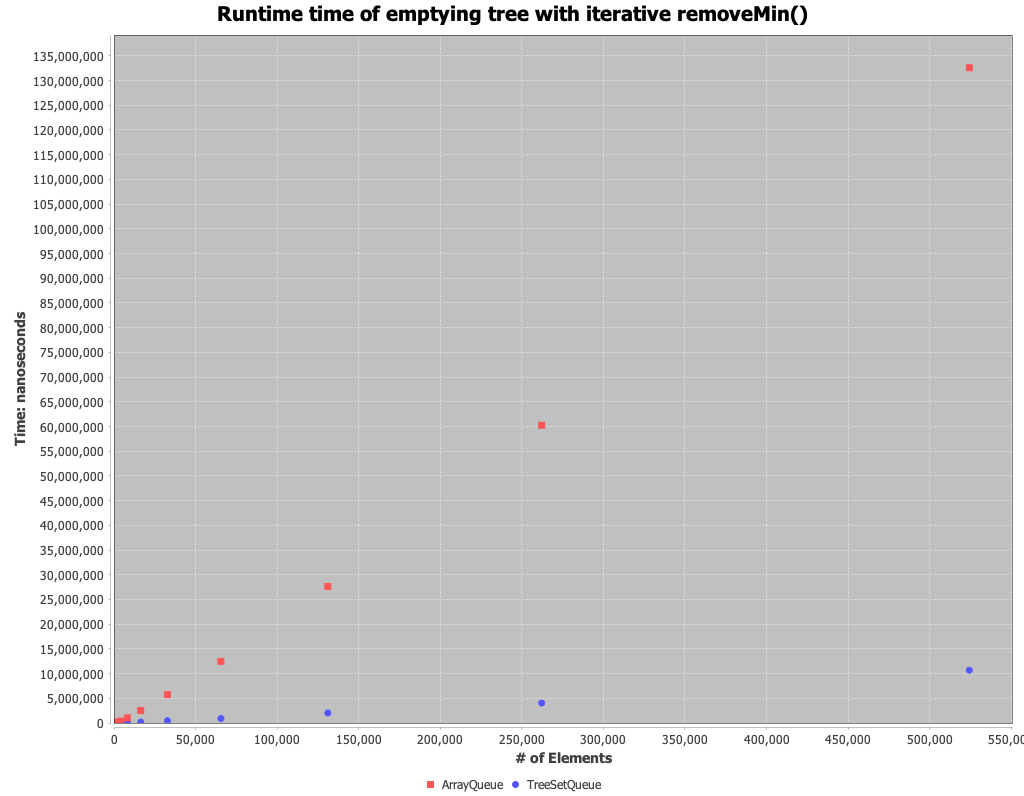
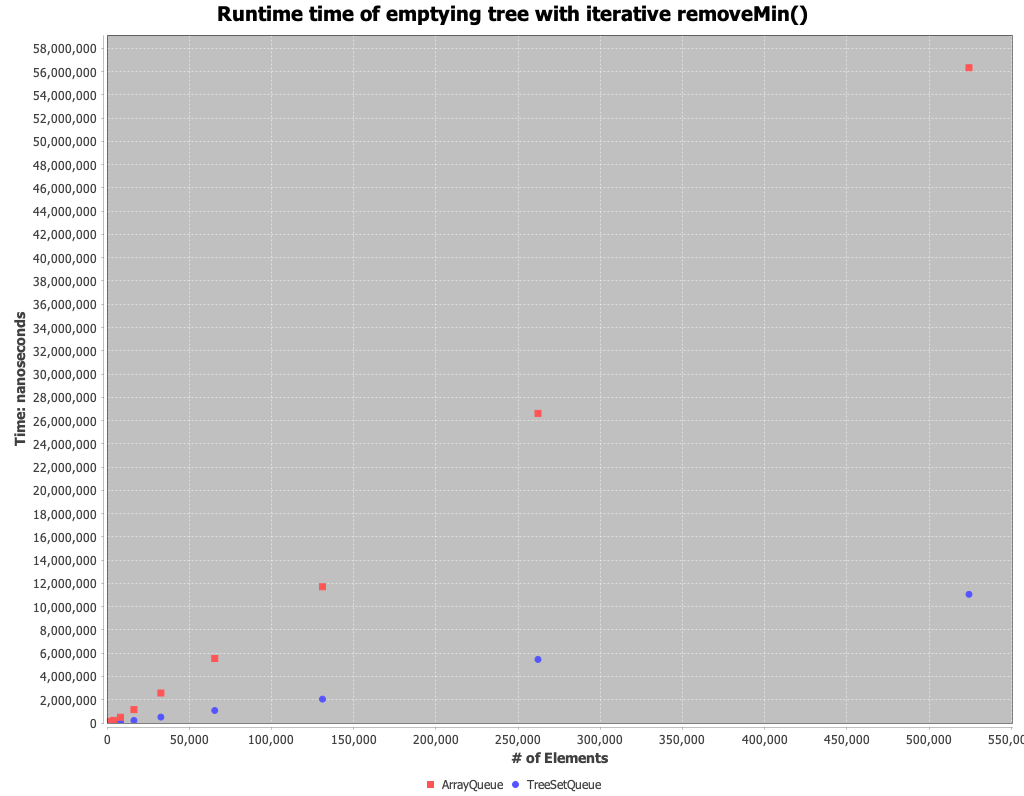
Updated lab6

diff --git a/CS6012/Week3/Day4/Lab6/src/lab06/StackTimingExperiment.java b/CS6012/Week3/Day4/Lab6/src/lab06/StackTimingExperiment.java
@@ -15,11 +15,6 @@ import java.util.ArrayList;
 import java.util.Arrays;
 import java.util.Collections;
 
-/*
- 1. Build trees with ordered set
- 2. Build trees with permuted set
- 3. Remove all elements
- */
 
 public class StackTimingExperiment extends TimerTemplate {
     public String dataStructure;
@@ -36,18 +31,16 @@ public class StackTimingExperiment extends TimerTemplate {
      */
     public StackTimingExperiment(int[] problemSizes, int timesToLoop) {
         super(problemSizes, timesToLoop);
-
     }
 
     @Override
     protected void setup(int n) {
-        for (int i = 0; i < n; i++){
+        orderdedSet.clear();
+        for (int i = 0; i < n; i++) {
             orderdedSet.add(i);
         }
         suffledSet = new ArrayList<>(orderdedSet);
-        for (int i = 0; i < 10; i++){
-            Collections.shuffle(suffledSet);
-        }
+        Collections.shuffle(suffledSet);
     }
 
     @Override
@@ -94,9 +87,13 @@ public class StackTimingExperiment extends TimerTemplate {
     protected void compensationIteration(int n) {
         if (testAdd) {
             if (useOrder) {
-                if (dataStructure.equals("ArrayQueue")) {} else {}
+                if (dataStructure.equals("ArrayQueue")) {
+                } else {
+                }
             } else {
-                if (dataStructure.equals("ArrayQueue")) {} else {}
+                if (dataStructure.equals("ArrayQueue")) {
+                } else {
+                }
             }
         } else {
             if (dataStructure.equals("ArrayQueue")) {
@@ -120,6 +117,7 @@ public class StackTimingExperiment extends TimerTemplate {
         }
 
     }
+
     public static int[] generateProblemSizes() {
         int numProblemSizes = 10;
         int[] problemSizes = new int[numProblemSizes];
@@ -159,7 +157,7 @@ public class StackTimingExperiment extends TimerTemplate {
         }
     }
 
-    public static void runTest(int[] problemSizes, boolean testAdd , boolean useOrder, String title, String fileName) {
+    public static void runTest(int[] problemSizes, boolean testAdd, boolean useOrder, String title, String fileName) {
         ArrayList<ExperimentResult> results_ = new ArrayList<>();
         for (String classToTest : Arrays.asList("ArrayQueue", "TreeSetQueue")) {
             StackTimingExperiment timer = new StackTimingExperiment(problemSizes, 100);
@@ -176,8 +174,8 @@ public class StackTimingExperiment extends TimerTemplate {
     public static void main(String[] args) {
         var problemSizes = generateProblemSizes();
 
-//        runTest(problemSizes, true, true, "Runtime time of tree construction from ordered set", "TreeConstructionOrderedSet");
-        runTest(problemSizes, true,false, "Runtime time of tree construction from permuted set", "TreeConstructionPermutedSet");
-//        runTest(problemSizes, false,true, "Runtime time of emptying tree with iterative removeMin()", "EmptyingTree");
+        runTest(problemSizes, true, true, "Runtime time of tree construction from ordered set", "TreeConstructionOrderedSet");
+        runTest(problemSizes, true, false, "Runtime time of tree construction from permuted set", "TreeConstructionPermutedSet");
+        runTest(problemSizes, false, true, "Runtime time of emptying tree with iterative removeMin()", "EmptyingTree");
     }
 }

diff --git a/CS6012/Week3/Day4/Lab6/analysis.md b/CS6012/Week3/Day4/Lab6/analysis.md
@@ -1,20 +1,41 @@
 # Lab 6 Analysis
 
 # Questions
-1. `TreeSet` is writing the permuted set slower than ordered set. Red black trees should be faster with permuted set
-2. I wouldn't expect a big difference between `TreeSet` and `ArrayQueue` on construction. Add for `ArrayQueue` is `O(n)` worst case and `TreeSet` guarantees `O(log n)`
-3. Cost of delete is similar `O(log n)` but we see a big difference
 
 ## Experiment 1 - Tree Construction
 
 ![](TreeConstructionOrderedSet.png)
 
+Here we see the runtime of adding an entire ascending ordered list into the pqueue min heap (`ArrayQueue`) and the pqueue treeset (`TreeSetQueue`).
+`ArrayQueue` outperforms `TreeSetQueue` which was expected as the `TreeSetQueue` has a guaranteed runtime of `O(nlogn)` whereas `ArrayQueue` has the following potential runtimes:
+* Add with no required percolating up - `O(n)`
+* Add requiring percolating up - `O(nlogn)`
+* Add requiring growing the array and percolating up - `O(n^2logn)`
+
+Given the array we are populating the heap with is sorted, thus won't require percolating up, and growing the array becomes increasingly rare, we can say the average runtime of constructing a populated `ArrayQueue` object is `O(n)`.
+Thus, I expected `TreeSetQueue` to have a runtime of `O(nlogn)` and `ArrayQueue` to have a runtime of `O(n)`.
+This expectation is supported as `ArrayQueue` displays a `O(n)` trend and `TreeSetQueue`, an `O(nlogn)` trend.
+
 ![](TreeConstructionPermutedSet.png)
 
-In both cases it appears the Array-backed min heap priority queue (`ArrayQueue`) had higher performance than the `TreeSet` backed priority queue.
-Both the `ArrayQueue` and `TreeSet` priority queues performed slower when being constructed with a permuted set vs. being constructed with an ascending ordered set.
-The trend makes sense as 
+Expect:
+* ArrayQueue - slows down as we need to percolate up more -> average runtime to `O(n)` and worst to `O(nlogn)` most often
+* TreeSetQueue - Stays at `O(nlogn)` - 
+
+In the chart above, we perform the same construction of the trees as in the first chart, except we now build the trees using a permuted list.
+Here I would expect `TreeSetQueue` to remain the same as it has a guaranteed runtime of `O(nlogn)` and `ArrayQueue` would slow down a bit, beause this would require percolating up more often moving it closer to a `O(nlogn)` runtime.
+However, even with percolating up being required the average percolate up runtime is `O(1)`.
+So, I would expect a slowdown from `ArrayQueue`, but not an entirely different time complexity.
+Overall the chart above matches my expectations, besides one caveat - the trends remained, but the overall runtime increased for all data points even for the `TreeSet`.
+Since the increase in runtime is applied to the entire chart (both data structures) my assumption is the experiment conflicted with other processes on my machine at time of running. 
 
 ## Experiment 3 - Tree Destruction
 
 ![](EmptyingTree.png)
+
+This chart shows the runtime of emptying each tree (repeatedly calling `removeMin()` until no values remain).
+Again, `TreeSet` guarantees runtime of `O(nlogn)`.
+`ArrayQueue` now must percolated down on removal of the root node (minimum), resulting in an expected runtime of `O(nlogn)`.
+While the `ArrayQueue`, does display an `O(nlogn)` trend, `TreeSet` seems to outperform `ArrayQueue` and is trending somewhere between `O(n)` and `O(nlogn)`.
+My hunch on why the structures are not displaying the same performance is, my implementation of `percolateDown` is recursive and thus requires a lot of memeory overhead and additional calls, which the `TreeSet` is not making.
+A follow-up experiment would be to change the recursive implementation to an iterative one and see if the runtimes between the structures are closer.
